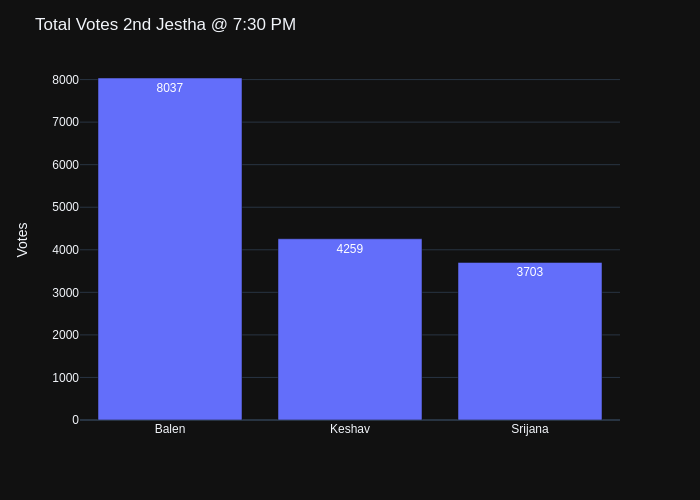
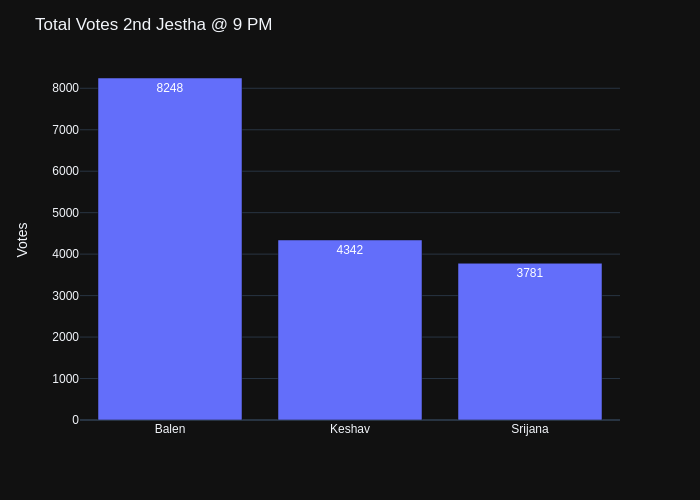
Add new data

diff --git a/README.md b/README.md
@@ -1,4 +1,4 @@
-## Last Update:2nd Jestha @ 7:30 PM
+## Last Update:2nd Jestha @ 9 PM
 
 ## Balen's Lead against Keshav Sthapit and Srijana Singh
 ![ScreenShot](final.jpg)
